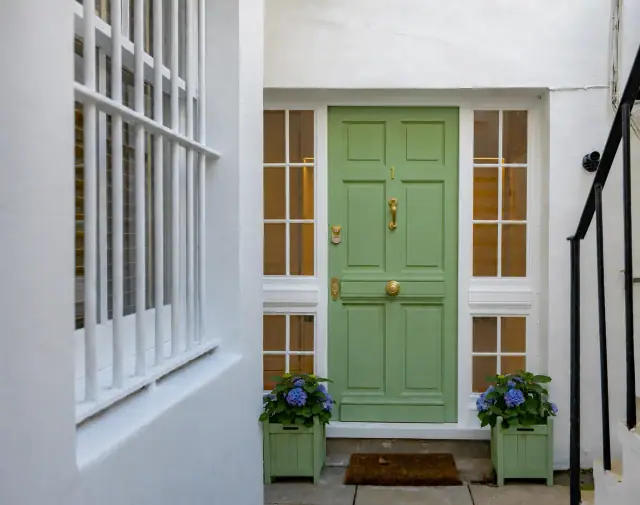
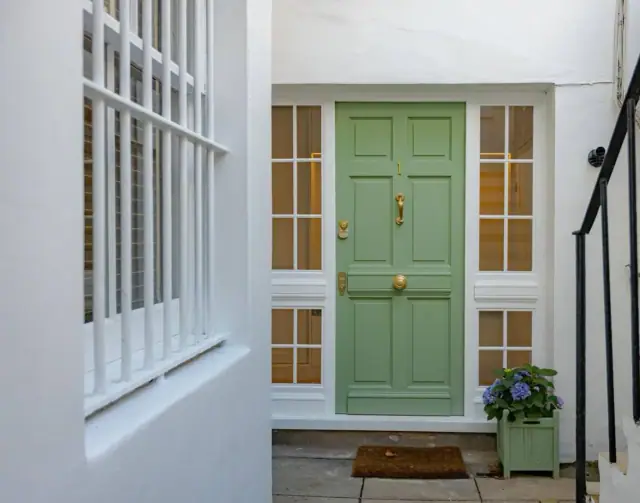
Add the window seat to the work page; replace the AI-edited door with its original
alcove-units-10: a panelled window seat and alcove bookcase from the old site's own portfolio, a room the gallery did not have. doors-panelling-03 was a ChatGPT edit of the SW7 entrance door (a second planter, whole frame redrawn); on no page, but it built the doors and panelling share image. Now the unedited original, on Denis's agreement.

diff --git a/src/data/work-gallery.ts b/src/data/work-gallery.ts
@@ -22,6 +22,34 @@
  * looks up its real dimensions there and fails the build if one is missing.
  *
  * -------------------------------------------------------------------------
+ * ONE MORE FRAME, AND ONE FILE REPLACED, 29 September 2026. Denis asked for
+ * more photographs. The library had been through three passes and the Drive
+ * folder had nothing new since 1 September, so the search went to every other
+ * copy on file, with a perceptual hash against the site and the library:
+ *
+ *   alcove-units-10       ADDED. A panelled window seat beside a full-height
+ *                         alcove bookcase, herringbone floor. The old site's
+ *                         own portfolio image ("Window Seat with Alcove
+ *                         Shelving"), the same basis as bespoke-kitchens-09,
+ *                         and a room nothing here shows. Soft at full size, as
+ *                         if enlarged from a smaller original; fine at the
+ *                         width the gallery gives it.
+ *   doors-panelling-03    REPLACED, not added. The file was a ChatGPT edit of
+ *                         the SW7 entrance door ("Green door outside.png",
+ *                         pixel-identical to a ChatGPT export of 2 September):
+ *                         a second planter added and the whole frame redrawn.
+ *                         It was on no page, but it sat in this folder and
+ *                         built the doors and panelling share image. Now the
+ *                         unedited original. Denis agreed, 29 September: the
+ *                         photograph shows the work as it is.
+ *
+ * Seen and left out: three whole-room frames from the October 2024 shoot
+ * (furniture, no joinery in frame), internal patio doors mid-install on a
+ * building site, a lit loft wardrobe carcass from a job already here, a 501px
+ * wardrobe frame, a white shaker kitchen from an unsourced screenshot (in only
+ * once Kaspar confirms it is his), and three more ChatGPT images.
+ *
+ * -------------------------------------------------------------------------
  * FOUR MORE FRAMES, 8 September 2026, afternoon. Denis sent eight photographs
  * and asked for any not on this page to be added. Twenty became twenty-four.
  * Each of the eight, against what was here:
@@ -219,5 +247,6 @@ export const WORK_GALLERY: WorkShot[] = [
   { file: "/images/doors-panelling/doors-panelling-01.webp", type: "Panelling and doors" },
   { file: "/images/fitted-wardrobes/fitted-wardrobes-05.webp", type: "Fitted wardrobes" },
   { file: "/images/bespoke-kitchens/bespoke-kitchens-09.webp", type: "Bespoke kitchens" },
+  { file: "/images/alcove-units/alcove-units-10.webp", type: "Alcove units" },
   { file: "/images/fitted-wardrobes/fitted-wardrobes-04.webp", type: "Fitted wardrobes" },
 ];
